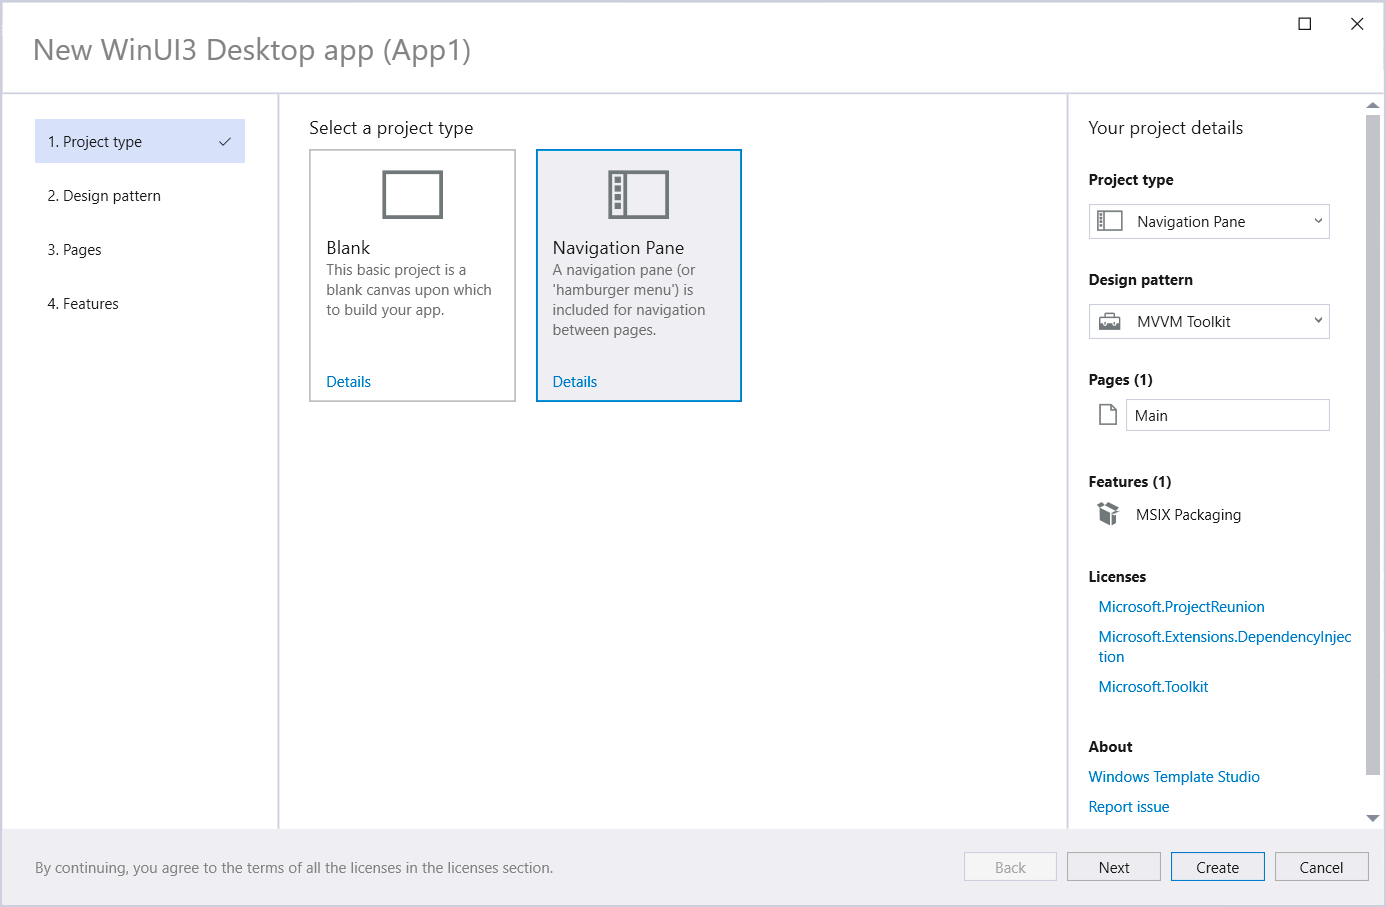
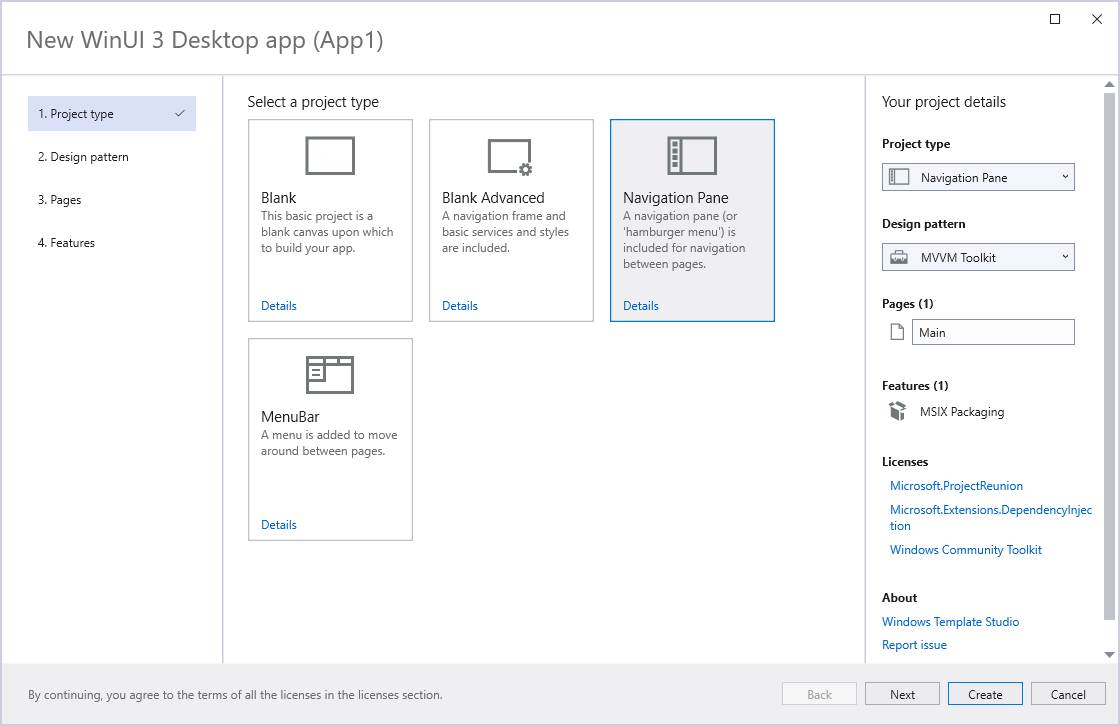
Update docs after 4.1 release

diff --git a/docs/roadmap.md b/docs/roadmap.md
@@ -6,18 +6,13 @@ In addition to the functionality listed below, each release will also include bu
 
 ## Next release
 
-### 4.1
-- Add Blank Advanced ProjectType for WinUI 3 Desktop Apps
-- Add MenuBar ProjectType for WinUI 3 Desktop Apps
-
-[Track progress](https://github.com/microsoft/WindowsTemplateStudio/milestone/32)
-
 ## Future Releases
 
 You can see a list of other items we'd like to get to, and which will form part of future releases, on the [Backlog](https://github.com/Microsoft/WindowsTemplateStudio/milestone/5).
 
 
 ## Past releases
+- [4.1 - June 2021](https://github.com/microsoft/WindowsTemplateStudio/milestone/32)
 - [4.0 - June 2021](https://github.com/microsoft/WindowsTemplateStudio/milestone/31)
 - [3.10 - May 2021](https://github.com/Microsoft/WindowsTemplateStudio/issues?q=is%3Aissue+milestone%3A3.10)
 - [3.9 - December 2020](https://github.com/Microsoft/WindowsTemplateStudio/issues?utf8=%E2%9C%93&q=is%3Aissue+milestone%3A3.9)
